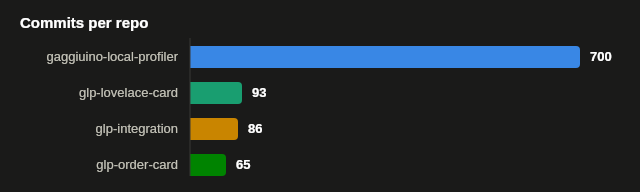
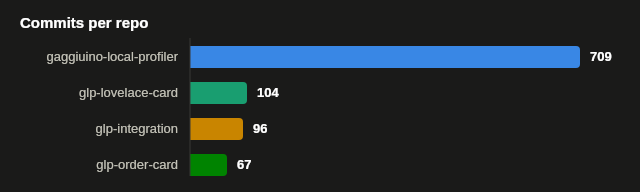
Release v2.20.1: bump version, changelog, dev-stats
Patch release: identity check on GET /api/orders/mine (#547), port-8099
trust-model doc warning (#546, investigated and declined to change the
default), stale hassio_api comment fix, and dependency patch bumps
(express-rate-limit, playwright).

diff --git a/gaggiuino-local-profiler/lib/constants.js b/gaggiuino-local-profiler/lib/constants.js
@@ -3,7 +3,7 @@ if (typeof File === 'undefined') {
     try { global.File = require('buffer').File; } catch { global.File = class File {}; }
 }
 
-const GLP_VERSION  = '2.20.0';
+const GLP_VERSION  = '2.20.1';
 const DEFAULT_PORT = 8099;
 
 const DATA_DIR             = '/data';

diff --git a/DEVELOPMENT.md b/DEVELOPMENT.md
@@ -1,22 +1,22 @@
 # Development Stats
 
-Generated 2026-07-27 by `scripts/dev-stats.mjs`. Re-run it any time to refresh these numbers — they are computed live from git history, not hand-maintained.
+Generated 2026-07-28 by `scripts/dev-stats.mjs`. Re-run it any time to refresh these numbers — they are computed live from git history, not hand-maintained.
 
 ## Timeline
 
-The GLP ecosystem (this app + 3 companion repos) has been in development since **2026-05-20** — **69 days** as of the last commit (2026-07-27).
+The GLP ecosystem (this app + 3 companion repos) has been in development since **2026-05-20** — **70 days** as of the last commit (2026-07-28).
 
 | Repo | First commit | Last commit | Commits | Claude co-authored |
 |---|---|---|---|---|
-| gaggiuino-local-profiler | 2026-05-20 | 2026-07-27 | 700 | 541 (77%) |
-| glp-integration | 2026-05-22 | 2026-07-27 | 86 | 63 (73%) |
-| glp-lovelace-card | 2026-05-24 | 2026-07-27 | 93 | 78 (84%) |
-| glp-order-card | 2026-05-25 | 2026-07-26 | 65 | 52 (80%) |
-| **Combined** | **2026-05-20** | **2026-07-27** | **944** | **734 (78%)** |
+| gaggiuino-local-profiler | 2026-05-20 | 2026-07-28 | 709 | 545 (77%) |
+| glp-integration | 2026-05-22 | 2026-07-28 | 96 | 70 (73%) |
+| glp-lovelace-card | 2026-05-24 | 2026-07-28 | 104 | 83 (80%) |
+| glp-order-card | 2026-05-25 | 2026-07-28 | 67 | 52 (78%) |
+| **Combined** | **2026-05-20** | **2026-07-28** | **976** | **750 (77%)** |
 
 ![Commits per repo](docs/dev-stats/commits-per-repo.png)
 
-Combined line changes (insertions + deletions across all commits): **283.449**, of which **214.834** landed in Claude-co-authored commits.
+Combined line changes (insertions + deletions across all commits): **285.821**, of which **216.318** landed in Claude-co-authored commits.
 
 Commits without a Claude co-author line are presumed human-only (manual fixes, merges, config tweaks) — not independently verified.
 
@@ -25,7 +25,7 @@ Commits without a Claude co-author line are presumed human-only (manual fixes, m
 | Model | Commits |
 |---|---|
 | Claude Sonnet 4.6 | 348 |
-| Claude Sonnet 5 | 275 |
+| Claude Sonnet 5 | 291 |
 | Claude Opus 4.8 | 47 |
 | Claude Fable 5 | 40 |
 | Claude | 11 |
@@ -40,7 +40,7 @@ The exact co-author string varies by era as model names changed over the project
 
 This is **not** measured token usage or an actual invoice. It multiplies changed lines (insertions + deletions) in Claude-co-authored commits by an assumed 25 tokens/line (covers the conversation and planning overhead around a diff, not just the diff bytes), then applies the price table in `scripts/dev-stats.pricing.json` — which ships with every price set to `null` until you fill in your own plan/API rates.
 
-**Estimated cost: ~$31.42** across 206.960 priced lines (+ 7.871 lines from unpriced models, excluded from this total).
+**Estimated cost: ~$31.52** across 208.493 priced lines (+ 7.825 lines from unpriced models, excluded from this total).
 
 ---
 *This file is generated. Do not hand-edit — re-run `node scripts/dev-stats.mjs` instead.*

diff --git a/gaggiuino-local-profiler/CHANGELOG.md b/gaggiuino-local-profiler/CHANGELOG.md
@@ -1,3 +1,16 @@
+## [2.20.1] – 2026-07-28
+
+### Fixed
+- **`GET /api/orders/mine` did not verify identity — any authenticated non-admin user could read another household member's order history, including free-text notes, by passing their (non-secret) HA user ID as a query parameter.** The route now prefers the HA-proxy-verified `x-glp-ha-user-id` header, mirroring the precedence `POST /api/orders` already used; the query parameter remains only as a fallback for direct-port mode, where there is no proxy to set the header. Affects installations with the Order feature enabled and more than one HA user. Closes #547
+
+### Changed
+- `DOCS.md`/`DOCS.de.md`: new paragraph in the trust-model section spelling out that port 8099 is open by default — even for Ingress-only users — and that an open port removes the token as a meaningful boundary on the LAN; includes how to close it (Settings → Add-ons → GLP → Configuration → Network). No behavior change; the port default itself is unchanged (see #546, investigated and declined this round — changing it to opt-in would silently break direct-port/PWA access on any install that never touched the Network settings UI, since Home Assistant Supervisor only persists a port override when a user explicitly saves one).
+- `config.yaml`: corrected a stale comment that attributed the `hassio_api` grant to a Supervisor-token verification check on `/api/token` — that check was removed in #534. No functional change.
+
+### Dependencies
+- `express-rate-limit` 8.6.0 → 8.6.1 (patch, no known CVE)
+- `playwright` (dev) 1.61.1 → 1.62.0
+
 ## [2.20.0] – 2026-07-27
 
 ### Added
